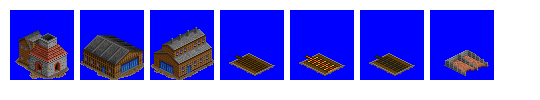
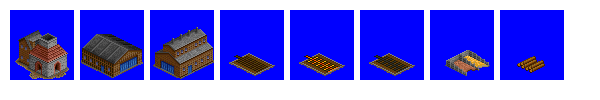
Change: tweaks to Iron Works sprites

Changed region(s): [[0.0, 0.09, 0.9481, 0.81]]

diff --git a/src/industries/iron_works.py b/src/industries/iron_works.py
@@ -75,6 +75,11 @@ spriteset_4 = industry.add_spriteset(
     sprites = [(430, 10, 64, 70, -31, -39)],
     zextent = 24
 )
+spriteset_5 = industry.add_spriteset(
+    id = 'iron_works_spriteset_5',
+    sprites = [(500, 10, 64, 70, -31, -39)],
+    zextent = 24
+)
 spriteset_iron_pigs_anim = industry.add_spriteset(
     id = 'iron_works_spriteset_iron_pigs_1',
     sprites = [(220, 10, 64, 70, -31, -39), (290, 10, 64, 70, -31, -39), (360, 10, 64, 70, -31, -39)],
@@ -135,6 +140,13 @@ industry.add_spritelayout(
     fences = ['nw','ne','se']
 )
 industry.add_spritelayout(
+    id = 'iron_works_spritelayout_logs',
+    ground_sprite = spriteset_ground,
+    ground_overlay = spriteset_ground_overlay,
+    building_sprites = [spriteset_5],
+    fences = ['nw','ne','se']
+)
+industry.add_spritelayout(
     id = 'iron_works_spritelayout_empty',
     ground_sprite = spriteset_ground,
     ground_overlay = spriteset_ground_overlay,
@@ -151,7 +163,7 @@ industry.add_industry_layout(
               (1, 2, 'iron_works_tile_anim_2', 'iron_works_spritelayout_iron_pigs_anim'),
               (2, 0, 'iron_works_tile', 'iron_works_spritelayout_large_shed'),
               (2, 1, 'iron_works_tile', 'iron_works_spritelayout_staithes'),
-              (2, 2, 'iron_works_tile', 'iron_works_spritelayout_empty')
+              (2, 2, 'iron_works_tile', 'iron_works_spritelayout_logs')
     ]
 )
 industry.add_industry_layout(
@@ -161,7 +173,7 @@ industry.add_industry_layout(
               (0, 2, 'iron_works_tile', 'iron_works_spritelayout_large_shed_clerestory_roof'),
               (1, 0, 'iron_works_tile_anim_1', 'iron_works_spritelayout_furnace_anim'),
               (1, 1, 'iron_works_tile_anim_2', 'iron_works_spritelayout_iron_pigs_anim'),
-              (1, 2, 'iron_works_tile', 'iron_works_spritelayout_empty'),
+              (1, 2, 'iron_works_tile', 'iron_works_spritelayout_logs'),
               (2, 0, 'iron_works_tile_anim_1', 'iron_works_spritelayout_furnace_anim'),
               (2, 1, 'iron_works_tile_anim_2', 'iron_works_spritelayout_iron_pigs_anim'),
               (2, 2, 'iron_works_tile', 'iron_works_spritelayout_staithes')
